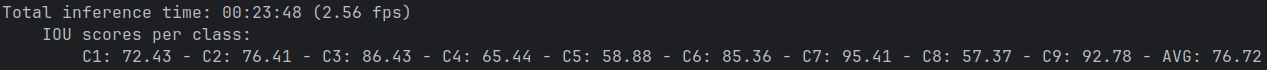
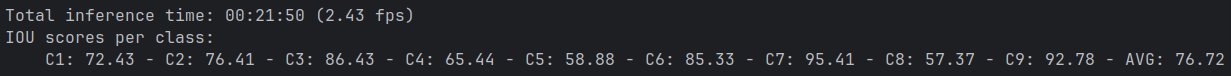
fixed details

Changed region(s): [[0.0309, 0.6857, 1.0, 0.8857], [0.0, 0.0857, 0.3396, 0.3143], [0.0, 0.4, 0.2161, 0.6]]

diff --git a/stseg/data_processing.py b/stseg/data_processing.py
@@ -64,7 +64,6 @@ def create_split_files(dataset_path, splitting, seed=12345):
     else:
         raise ValueError("Invalid splitting option. Choose 'train-val-test' or '5-fold'.")
 
-    # Save the split dictionary as a pickle file
     with open(split_file_path, 'w') as f:
         json.dump(split_data, f, indent=4)
 
@@ -373,6 +372,7 @@ class SegTrainingDataset(Dataset):
         """ Uses a probability threshold to oversample foreground patches. """
         return np.random.uniform() < self.oversample_foreground_percent
 
+    # from nnunet adapted
     def get_bbox(self, data_shape, force_fg, class_locations):
         """
         Computes a bounding box (lower and upper) for patch cropping.
@@ -531,7 +531,7 @@ class SegTestDataset(Dataset):
         self._index = []  # (vid_idx, t0, t1)
         for vid_idx, name in enumerate(self.ids):
             zg = zarr.open_group(os.path.join(self.data_path, name + '.zarr'), mode='r')
-            tlen = zg['image'].shape[1]  # time is axis 1 in your data
+            tlen = zg['image'].shape[1]  # time is axis 1
             self.video_lengths.append(tlen)
             t = 0
             while t < tlen:

diff --git a/stseg/create_dataset.py b/stseg/create_dataset.py
@@ -1,4 +1,5 @@
 import os
+import ast
 import io
 import cv2
 import zarr
@@ -8,7 +9,7 @@ import tempfile
 import numpy as np
 from PIL import Image
 from zarr.codecs import BloscCodec, BloscShuffle
-from stseg.utils import parse_list_arg, clean_numpy_scalars, get_default_config
+from stseg.utils import clean_numpy_scalars
 
 
 def main():
@@ -16,7 +17,7 @@ def main():
     parser.add_argument("zip_dataset_path", type=str, help="Path to dataset zip.")
     parser.add_argument("save_dataset_path", type=str, help="Path of folder where dataset will be saved.")
     parser.add_argument("n_classes", type=int, help="Number of classes.")
-    parser.add_argument("patch_size", type=parse_list_arg, help="Patch size in format [W, H]")
+    parser.add_argument("patch_size", type=ast.literal_eval, help="Patch size in format [W, H]")
 
     args = parser.parse_args()
     dataset_zip_path = args.zip_dataset_path

diff --git a/stseg/model.py b/stseg/model.py
@@ -355,6 +355,6 @@ class SegModel:
         for i, score in enumerate(total_mean_per_class):
             parts.append(f"C{i+1}: {score.numpy() * 100:.2f}")
         parts.append(f"AVG: {total_mean_per_class.mean().numpy() * 100:.2f}")
-        print("    IOU scores per class: ")
-        print("        " + " - ".join(parts))
+        print("IOU scores per class: ")
+        print("    " + " - ".join(parts))
 

diff --git a/stseg/utils.py b/stseg/utils.py
@@ -10,7 +10,7 @@ def save_losses(loss_dict, save_path, log_scale=False):
     os.makedirs(save_path, exist_ok=True)
     save_plot_path = os.path.join(save_path, f"loss.png")
 
-    epochs = range(1, len(loss_dict['train_loss']) + 1)  # Epoch indices
+    epochs = range(1, len(loss_dict['train_loss']) + 1)
 
     mapping_names_dict = {'train_loss': 'Train DiceCELoss', 'val_loss': 'Val DiceCELoss'}
 

diff --git a/README.md b/README.md
@@ -1,4 +1,4 @@
-# Segmenation of Surgical Tools
+# Segmentation of Surgical Tools
 
 ![](images/epoch_140_mbn3_val.png)
 
@@ -19,7 +19,13 @@ To install and use this project you can follow these steps:
 1. Clone the repository
 2. Create your virtual environment
 3. Install the right [pytorch](https://pytorch.org/) version for your system
-4. Run pip install . or pip install -e . for development
+4. Run:
+
+```bash
+pip install .
+# or for development
+pip install -e .
+```
 
 
 ## Usage Instructions
@@ -64,8 +70,8 @@ The above command will create a new dataset at
 /home/WildCapybara/projects/datasets/STSeg based on the initial dataset stored 
 in /home/WildCapybara/projects/24932529.zip. The video frames and the 
 corresponding segmentation masks for each case will be stored in a [.zarr file](https://zarr.readthedocs.io/en/stable/)
-for efficient storage and retrival, using chunking, with chunk size the size of 
-one model input patch. The dataset contains 9 classes, and we will use a chunk 
+for efficient storage and retrieval, using chunking, with chunk size equal to 
+the model’s input patch size. The dataset contains 9 classes, and we will use a chunk 
 size of [512, 640]. The video frames will be normalized in [0, 1] range.
 
 
@@ -79,7 +85,7 @@ project, the default percentage of patches having a random class is 33%. nnU-Net
 augmentations are also used on-the-fly while training such as, random flips, 
 rotations, scaling, intensity augmentations, etc.
 
-Bellow is the basic command to run training with the project:
+Below is the basic command to run training with the project:
 
 ```bash
 stseg_train_model /dataset_path /results_path splitting n_classes patch_size --fold --progress_bar --continue_training
@@ -89,14 +95,16 @@ stseg_train_model /dataset_path /results_path splitting n_classes patch_size --f
 - */results_path* is the path to store results.
 - *splitting* indicates the mode of data splitting, and it can be either 
 *'train-val-test'* or *'5fold'*. With 'train-val-test' splitting, the dataset will be
-split into 70% training data, 10% validation and 20% test data.
+split into 70% training data, 10% validation and 20% test data. When you run training 
+for the first time on a dataset, a .json file will be created in the dataset path,
+containing the ids of the data sections.
 - *n_classes* is the number of the classes in the dataset.
 - *patch_size* is the training patch size.
-- *fold* is the index of fold in 5fold traininig.
-- *progress_bar* indicates whether we want to use tqdm progress bars.
-- *continue_training* indicates whether we are continuing a training experiment.
+- *fold* (optional) is the index of fold in 5fold training.
+- *progress_bar* (optional) indicates whether we want to use tqdm progress bars.
+- *continue_training* (optional) indicates whether we are continuing a training experiment.
 
-Inside the results folder, there will be stored:
+The results folder will contain:
 
 - A *config.yaml* file that contains all hyperparameters of the experiment
 - A *loss_dict.pkl* to store loss values of every training epoch
@@ -132,9 +140,9 @@ stseg_infer /dataset_path /results_path n_classes patch_size
 ```
 
 Obviously you should have already trained a model to run this command, and have a 
-results folder created with this project. Nothing will be currently stored or change
-when you run the inference command. You run the model on the given data, and you get
-metrics printed (inference time, fps and IOU scores).
+results folder created with this project. Nothing will be stored or changed when 
+you run the inference command. You run the model on the given data, and you get
+metrics printed (inference time, fps and IoU scores).
 
 For inference, a sliding window approach is adopted, using the implementation from 
 [MONAI](https://docs.monai.io/en/stable/inferers.html#sliding-window-inference-function).
@@ -149,12 +157,16 @@ stseg_infer /home/WildCapybara/projects/datasets/STSeg_Test /home/WildCapybara/p
 
 In the example we change the default batch size used in the sliding window step to 16.
 
+If you trained a model with this project, and you used the 'train-val-test' splitting,
+you can infer on the test partition by using as /dataset_path the path of the training
+dataset.
+
 
 ## Full Example for MICCAI Challenge
 
-With the default configuration (based on U-Net++ and MobileNetV3), by running 
-the following commands we can achieve performance that gets as to the challenge 
-leaderboard:
+With the default configuration (based on U-Net++ and MobileNetV3) and sliding window
+overlap 0.75, by running the following commands we can achieve performance comparable 
+to the challenge leaderboard:
 
 ```bash
 # Create training dataset
@@ -164,7 +176,7 @@ stseg_train_model /home/WildCapybara/projects/datasets/STSeg /home/WildCapybara/
 # Create test dataset
 stseg_create_dataset /home/WildCapybara/projects/24932499.zip /home/WildCapybara/projects/datasets/STSeg_Test 9 [512,640]
 # Run inference on the test dataset
-stseg_infer /home/WildCapybara/projects/datasets/STSeg_Test /home/WildCapybara/projects/results/exp1 9 [512,640] 
+stseg_infer /home/WildCapybara/projects/datasets/STSeg_Test /home/WildCapybara/projects/results/exp1 9 [512,640] --sw_overlap 0.75 
 ```
 
 This experiment was done on a laptop with an NVIDIA GeForce RTX 3060 Laptop GPU with 
@@ -183,6 +195,10 @@ were used for training and 4 for validation. The original test set of 10 samples
 
 
 ## How to Increase Performance
+
+Certain choices can be made to increase performance, although most of them might come at 
+the cost of inference speed. If enough resources are available, some promising options
+might be:
 
 1. Bigger patch size if resources are available
 2. Bigger model size
@@ -204,12 +220,12 @@ robot-assisted radical prostatectomy challenge. arXiv preprint arXiv:2401.00496.
 Maier-Hein, K.H., 2021. nnU-Net: a self-configuring method for deep learning-based 
 biomedical image segmentation. Nature methods, 18(2), pp.203-211. ([link](https://www.nature.com/articles/s41592-020-01008-z))
 
-
 <a id="ref-3"></a> [3] Zhou, Z., Rahman Siddiquee, M.M., Tajbakhsh, N. and Liang, J.,
 2018, September. Unet++: A nested u-net architecture for medical image segmentation. 
 In International workshop on deep learning in medical image analysis (pp. 3-11). 
 Cham: Springer International Publishing. ([link](https://pmc.ncbi.nlm.nih.gov/articles/PMC7329239/pdf/nihms-1600717.pdf))
 
-
-
-<a id="ref-3"></a> [4] Howard, A., Sandler, M., Chu, G., Chen, L.C., Chen, B., Tan, M., Wang, W., Zhu, Y., Pang, R., Vasudevan, V. and Le, Q.V., 2019. Searching for mobilenetv3. In Proceedings of the IEEE/CVF international conference on computer vision (pp. 1314-1324). ([link](https://arxiv.org/abs/1905.02244))
+<a id="ref-4"></a> [4] Howard, A., Sandler, M., Chu, G., Chen, L.C., Chen, B., Tan, M., 
+Wang, W., Zhu, Y., Pang, R., Vasudevan, V. and Le, Q.V., 2019. Searching for mobilenetv3.
+In Proceedings of the IEEE/CVF international conference on computer vision 
+(pp. 1314-1324). ([link](https://arxiv.org/abs/1905.02244))
